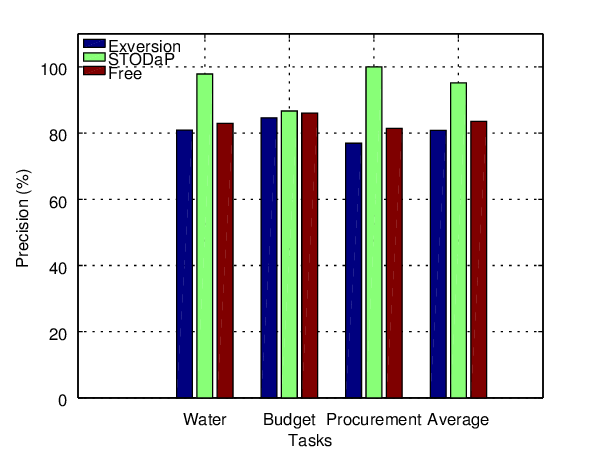
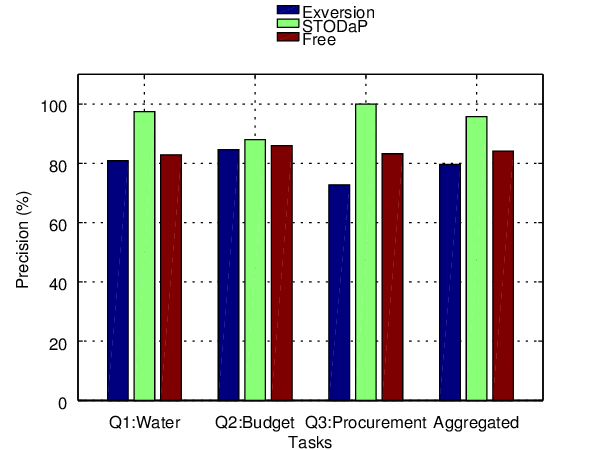
eval

diff --git a/chapters/evaluation.tex b/chapters/evaluation.tex
@@ -441,26 +441,7 @@ This obviously does not make sense.
 The two conclusions we can take are: (i) distribution are skewed, i.e., tails are not symmetric around the mean; and (ii) there might be outliers disturbing the standard deviation.
 Thus, we show in \autoref{fig:tct}, \autoref{fig:tct_nb} and \autoref{fig:tct_c} the boxplot of TCT, TCT$_{nb}$ and TCT$_c$, respectively.
 
-Boxplot pictures a more detailed view of a distribution, and is specially useful for skewed samples.
-Besides the median, marked with a red line in the centre of the box, \autoref{fig:tct} also shows the first and third quartiles, which are the lower and upper bounds of the box.
-They represent, respectively, the higher among the one quarter smaller samples, and the smaller among the one quarter higher samples.
-Thus, half of the samples are inside the box, whose size is called interquartile range (IQR).
-Boxplot shows also outliers: if the distance from an outlier to the median is between 1.5 and 3 IQR, it is pointed with a circle (o); if it is higher than IQR, it is marked with a plus (+).
-
-\autoref{fig:tct} shows that, although STODaP median is lower, IQR is almost at the same position.
-Free search lower bound is slightly smaller.
-STODaP presented higher outliers, while in Exversion outliers are less disperse.
-Moving to \autoref{fig:tct_nb}, where blank answers are not considered, STODaP keeps the lower median, and the lower bound in this case is smaller, meaning that 50\% of the samples are located in a lower region than on the free search method.
-
-Results shown in \autoref{fig:tct_c} strengthen this trend, and in this case STODaP distribution is lies on a lower region in all aspects: median, quartiles, whiskers and outliers.
-In all scenarios, distribution of Exversion samples are in a higher position in relation to the other methods.
-On the other side, this search engine presents a more better behaviour in relation to outliers.
-
-As commented before, the better performance of STODaP in \autoref{fig:tct_nb} and \autoref{fig:tct_c} has a direct relation to the precision of the answers.
-This aspect will be analysed in the following.
-
-
-\begin{figure}[hb]
+\begin{figure}[t]
 \begin{center}
 \includegraphics[scale=1.2]{images/tct_boxplotresults.png}
 \caption[Boxplot for TCT.]{Boxplot for TCT. Figure shows, for each search method: median, in red; the first and third quartiles, as the bottom and top of the box, resp.; the lowest sample within 1.5 interquartile range (IQR) of the lower quartile, as the lower whisker; the highest sample within 1.5 IQR of the upper quartile, as the upper whisker; outliers between 1.5 and 3 IQR, as + (plus); and outliers higher than 3 IQR, as o (circle).}
@@ -485,32 +466,72 @@ This aspect will be analysed in the following.
 \end{figure}
 
 
+Boxplot pictures a more detailed view of a distribution, and is specially useful for skewed samples.
+Besides the median, marked with a red line in the centre of the box, \autoref{fig:tct} also shows the first and third quartiles, which are the lower and upper bounds of the box.
+They represent, respectively, the higher among the one quarter smaller samples, and the smaller among the one quarter higher samples.
+Thus, half of the samples are inside the box, whose size is called interquartile range (IQR).
+Boxplot shows also outliers: if the distance from an outlier to the median is between 1.5 and 3 IQR, it is pointed with a circle (o); if it is higher than IQR, it is marked with a plus (+).
+
+\autoref{fig:tct} shows that, although STODaP median is lower, IQR is almost at the same position.
+Free search lower bound is slightly smaller.
+STODaP presented higher outliers, while in Exversion outliers are less disperse.
+Moving to \autoref{fig:tct_nb}, where blank answers are not considered, STODaP keeps the lower median, and the lower bound in this case is smaller, meaning that 50\% of the samples are located in a lower region than on the free search method.
+
+Results shown in \autoref{fig:tct_c} strengthen this trend, and in this case STODaP distribution lies on a lower region in all aspects: median, quartiles, whiskers and outliers.
+In all scenarios, distribution of Exversion samples are in a higher position in relation to the other methods.
+On the other side, this search engine presents a better behaviour in relation to outliers.
+
+As commented before, the better performance of STODaP in \autoref{fig:tct_nb} and \autoref{fig:tct_c} has a direct relation to the precision of the answers.
+This aspect will be analysed in the following.
+
 
 \subsection{Precision Analysis}
 
-\autoref{fig:precision} presents an analysis of the answer precision for each search method and task.
+
 As stated before, each answer given by participants was validated against the specified task.
 Thus, we were able to compute the precision of each task as:
-
 \begin{equation}
-	P = \frac{a_v}{A_T} * 100,
+	P = \frac{a_v}{N} 100,
 \end{equation}
-
-where $A_T$ is the number of required answers for each task, and $a_v$ is the number of valid answer given by a subject.
+where $N$ is the number of required answers for each task, and $a_v$ is the number of correct answers given by a subject.
+In order to estimate the performance of each search method in terms of precision, we calculate the average precision for each question, and the aggregate result for each search method.
+Reasons for using average and not median, as before, are the following.
+When measuring precision, range is limited to $33 \leq P \leq 100$ (values under 33 were discarded), and thus outliers are less troublesome than in TCT.
+Moreover, since some samples have many $P = 100$, median can give a less precise picture of the distribution.
+\autoref{fig:precision} presents a bar plot of the precision averages.
+In order to verify the distribution behaviour, a boxplot is presented in \autoref{fig:precision_boxplot}.
 
 \begin{figure}[h!]
 \begin{center}
-\includegraphics[width=\columnwidth]{images/precision.png}
-\caption[Precision analysis.]{Precision analysis. Bars show the average precision for subjects answers, for each question and for each search method.}
+\includegraphics[scale=1.2]{images/precision.png}
+\caption[Precision analysis: Average.]{Precision analysis. Bars show the average precision for subjects answers, for each question/search method combination, and aggregated for each search method.}
 \label{fig:precision}
 \end{center}
 \end{figure}
 
-A parallel behaviour as in TCT analysis can be observed.
-STODaP exhibits a better performance on average, but is slightly worse regarding the Budget task.
+\begin{figure}[h!]
+\begin{center}
+\includegraphics[width=\columnwidth]{images/precision_boxplot.png}
+\caption[Precision analysis: Boxplot.]{Precision analysis. Figure shows a boxplot for each search method / question combinations, and aggregated for each search method.}
+\label{fig:precision_boxplot}
+\end{center}
+\end{figure}
+
+A parallel behaviour as in TCT analysis can be observed in \autoref{fig:precision}.
+STODaP exhibits a better performance on average, but is almost equivalent to free search regarding the Budget question.
 A 100\% rate can be observed in the STODaP performance for the Procurement task.
 In this case, where the task required datasets in three different languages, semantic tag Public Procurement (\url{http://stodap.org/semantictag/4321/}) could directly connect datasets in English, Russian, Spanish, Finish, Portuguese, Danish, German and Italian using the keyword ``procurement''.
-Thus, this task presents the better performance for STODaP, and also the worse using other methods.
+Thus, this task presents the better performance for STODaP, and the worse using other methods.
+
+\autoref{fig:precision_boxplot} also presents some useful information.
+For all questions, and in the aggregated analysis, median of STODaP is 100\%.
+The same can be stated about free search, except for Q1.
+IQR of STODaP is zero for Q1 and Q3 and in the aggregated result, where only 3 samples are not 100\%.
+
+High precision of STODaP can be explained by questions tailored to take advantage of its features.
+Particularly, asking for different countries and languages matches some of the STODaP facets.
+Results show that these features of the STODaP architecture work as expected, turning STODaP into a better search engine than the powerful generic ones, at least for these particular cases.
+Further discussions are driven in the conclusions of this chapter and in the next chapter.
 
 \subsection{Subjective Evaluation}
 
@@ -531,14 +552,14 @@ STODaP fits more the needs of non-experts, by providing a generic starting point
 \label{tab:subj_eval}
 \begin{tabular}{|m{4cm}|>{\centering}m{3cm}|>{\centering\arraybackslash}m{3cm}|>{\centering\arraybackslash}m{3cm}|}
 \hline
-\textbf{Question} & \textbf{Global Average} ($n=34$) & \textbf{Non-experts} ($n=25$) & \textbf{Experts} ($n=9$) \\ \hline
-Absolute Satisfaction & 4.3 & 4.4 & 4.2 \\ \hline
-Relative Satisfaction & 4.2 & 4.4 & 3.9\\ \hline
+\textbf{Question} & \textbf{Global Average} ($n=37$) & \textbf{Non-experts} ($n=27$) & \textbf{Experts} ($n=10$) \\ \hline
+Absolute Satisfaction & 4.3 & 4.3 & 4.3 \\ \hline
+Relative Satisfaction & 4.2 & 4.3 & 4.0\\ \hline
 \end{tabular}
 \end{table}
 
 The evaluation questionnaire included also a free comment section, in order to let subjects write their impressions.
-Unfortunately, only 14 subjects out of 34 wrote comments.
+Unfortunately, only 14 subjects out of 37 wrote comments.
 Comments can be categorized in the following categories:
 
 \noindent \textbf{Design/Layout:} Six subjects complained about the user interface, both visually and in terms of usability: \emph{``The user interface is not intuitive nor pleasant. It should be further worked to help the visualization of results.''} was one the comments.
